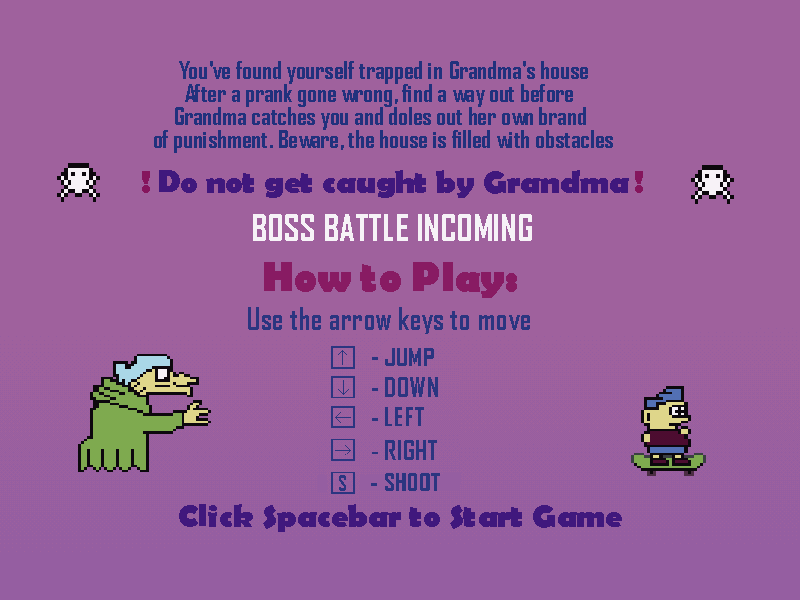
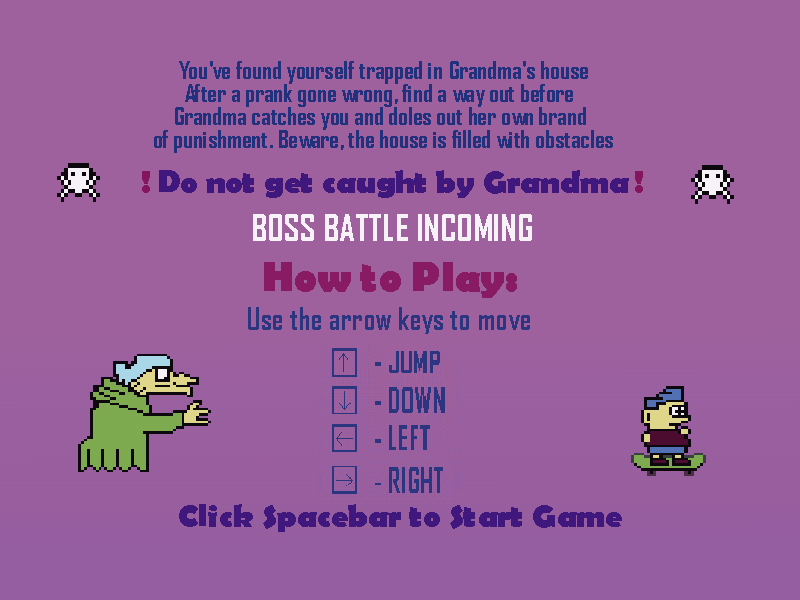
Tut/jump

Changed region(s): [[0.4062, 0.57, 0.5625, 0.84]]

diff --git a/src/scenes/BossLevel.js b/src/scenes/BossLevel.js
@@ -166,7 +166,7 @@ class BossLevel extends Phaser.Scene {
             if (cursors.up.isDown && !this.jumping) {
                 this.jumping = true;
                 //set Vertical Velocity
-                this.bosskid.setVelocityY(-900) //Adjust if needed
+                this.bosskid.setVelocityY(-1200) //Adjust if needed
             } else if (cursors.up.isUp && this.bosskid.body.onFloor()) {
                 this.jumping = false;
             }

diff --git a/src/scenes/BossStart.js b/src/scenes/BossStart.js
@@ -5,7 +5,7 @@ class BossStart extends Phaser.Scene {
     }
 
 preload() {
-    this.load.image('TutBoss', './assets/UpdatedBossTut.png')
+    this.load.image('TutBoss', './assets/TutScreenBoss.png')
     this.load.audio('bossmusic', './assets/sounds/BossBattleLoop.mp3')
 }
 
